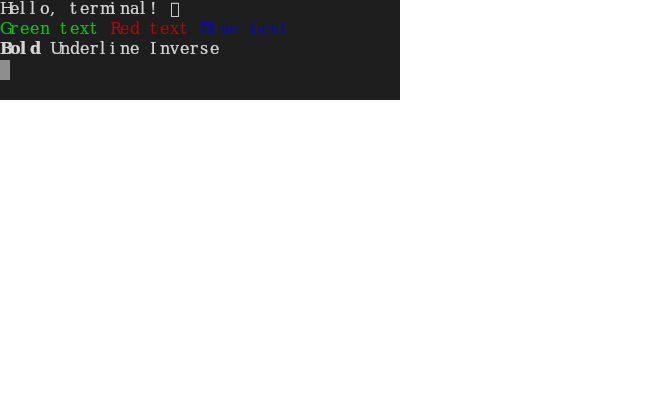
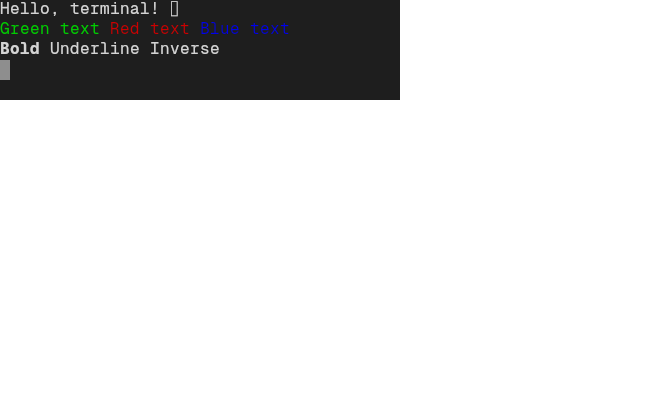
fix: register Geist Mono fonts + use in terminal screenshots

Changed region(s): [[0.0, 0.0, 0.4545, 0.1238]]

diff --git a/scripts/generate-readme-assets.tsx b/scripts/generate-readme-assets.tsx
@@ -33,32 +33,33 @@ const __dirname = dirname(__filename);
 const rootDir = pathResolve(__dirname, "..");
 
 // ── Register Geist fonts ──────────────────────────────────────────────
-const geistFontsDir = join(
-	rootDir,
-	"node_modules",
-	"geist",
-	"dist",
-	"fonts",
-	"geist-sans",
-);
+const geistFontsBase = join(rootDir, "node_modules", "geist", "dist", "fonts");
 
-const fontWeights = [
-	"Geist-Regular",
-	"Geist-Bold",
-	"Geist-Medium",
-	"Geist-SemiBold",
-	"Geist-Light",
-	"Geist-Thin",
+const fontFamilies: Array<{ dir: string; names: string[]; weights: string[] }> = [
+	{
+		dir: "geist-sans",
+		names: ["Geist", "Geist Sans"],
+		weights: ["Regular", "Bold", "Medium", "SemiBold", "Light", "Thin"],
+	},
+	{
+		dir: "geist-mono",
+		names: ["Geist Mono"],
+		weights: ["Regular", "Bold", "Medium", "SemiBold", "Light", "Thin"],
+	},
 ];
 
 let fontsRegistered = 0;
-for (const file of fontWeights) {
-	const ttf = join(geistFontsDir, `${file}.ttf`);
-	if (existsSync(ttf)) {
-		// Register under both names so README code can use either
-		GlobalFonts.registerFromPath(ttf, "Geist");
-		GlobalFonts.registerFromPath(ttf, "Geist Sans");
-		fontsRegistered++;
+for (const family of fontFamilies) {
+	const dir = join(geistFontsBase, family.dir);
+	const prefix = family.dir === "geist-mono" ? "GeistMono" : "Geist";
+	for (const weight of family.weights) {
+		const ttf = join(dir, `${prefix}-${weight}.ttf`);
+		if (existsSync(ttf)) {
+			for (const name of family.names) {
+				GlobalFonts.registerFromPath(ttf, name);
+			}
+			fontsRegistered++;
+		}
 	}
 }
 

diff --git a/packages/terminal/README.md b/packages/terminal/README.md
@@ -36,7 +36,7 @@ export function App() {
       cols={40}
       rows={5}
       fontSize={16}
-      fontFamily="monospace"
+      fontFamily="Geist Mono"
       theme={{ background: "#1e1e1e", foreground: "#d4d4d4" }}
     />
   );
@@ -85,7 +85,7 @@ export function App() {
       cols={72}
       rows={16}
       fontSize={14}
-      fontFamily="monospace"
+      fontFamily="Geist Mono"
       theme={{ background: "#1a1a2e", foreground: "#eee" }}
     />
   );
